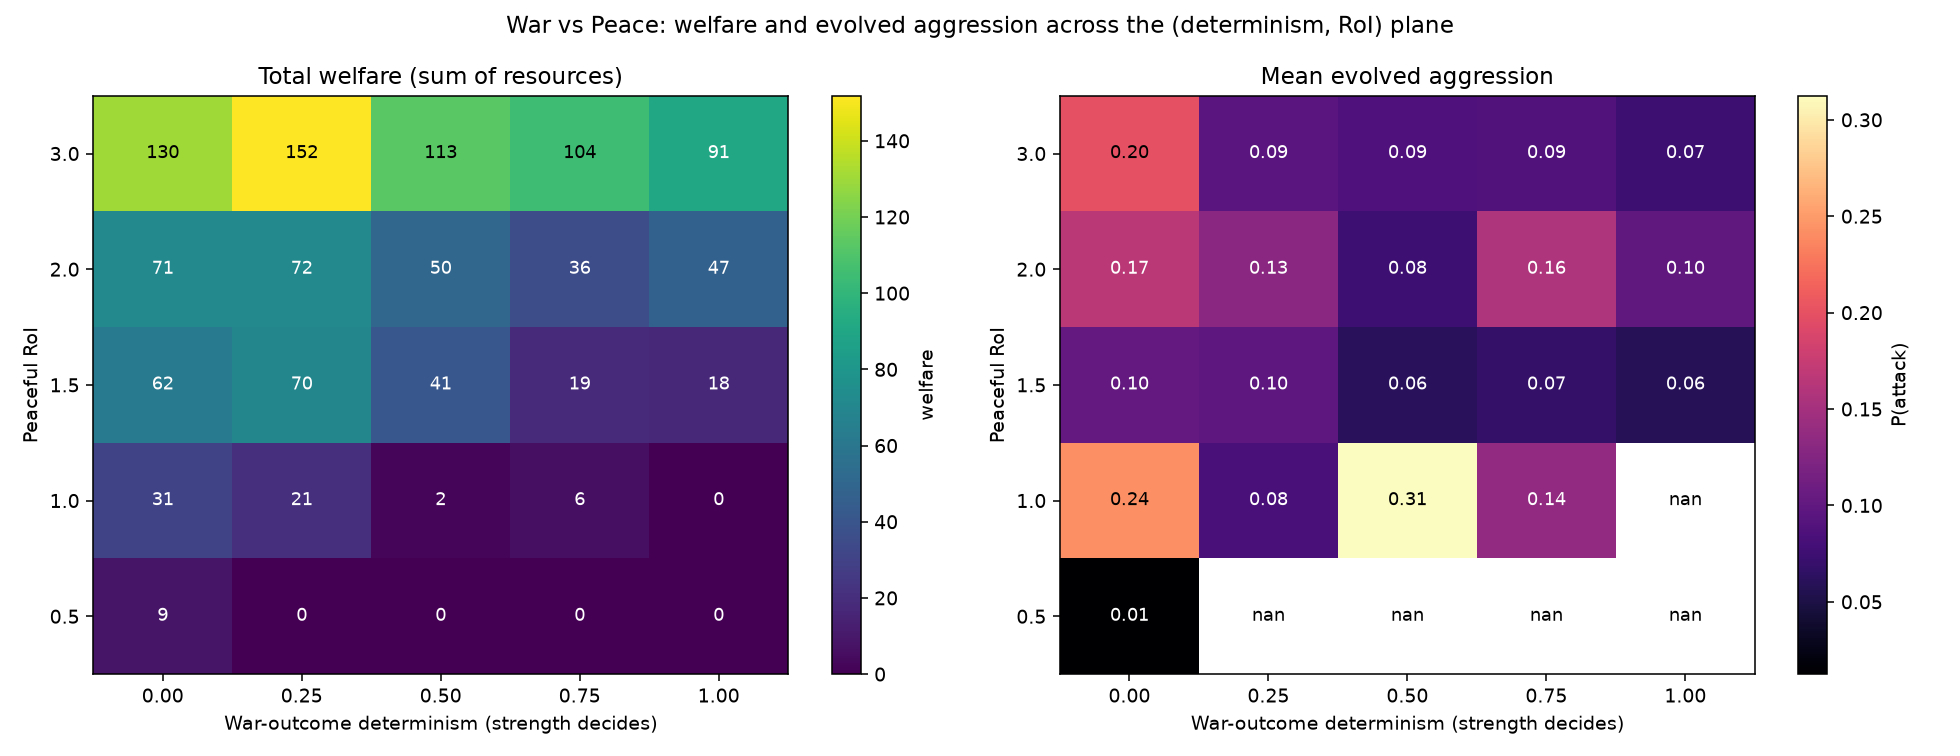
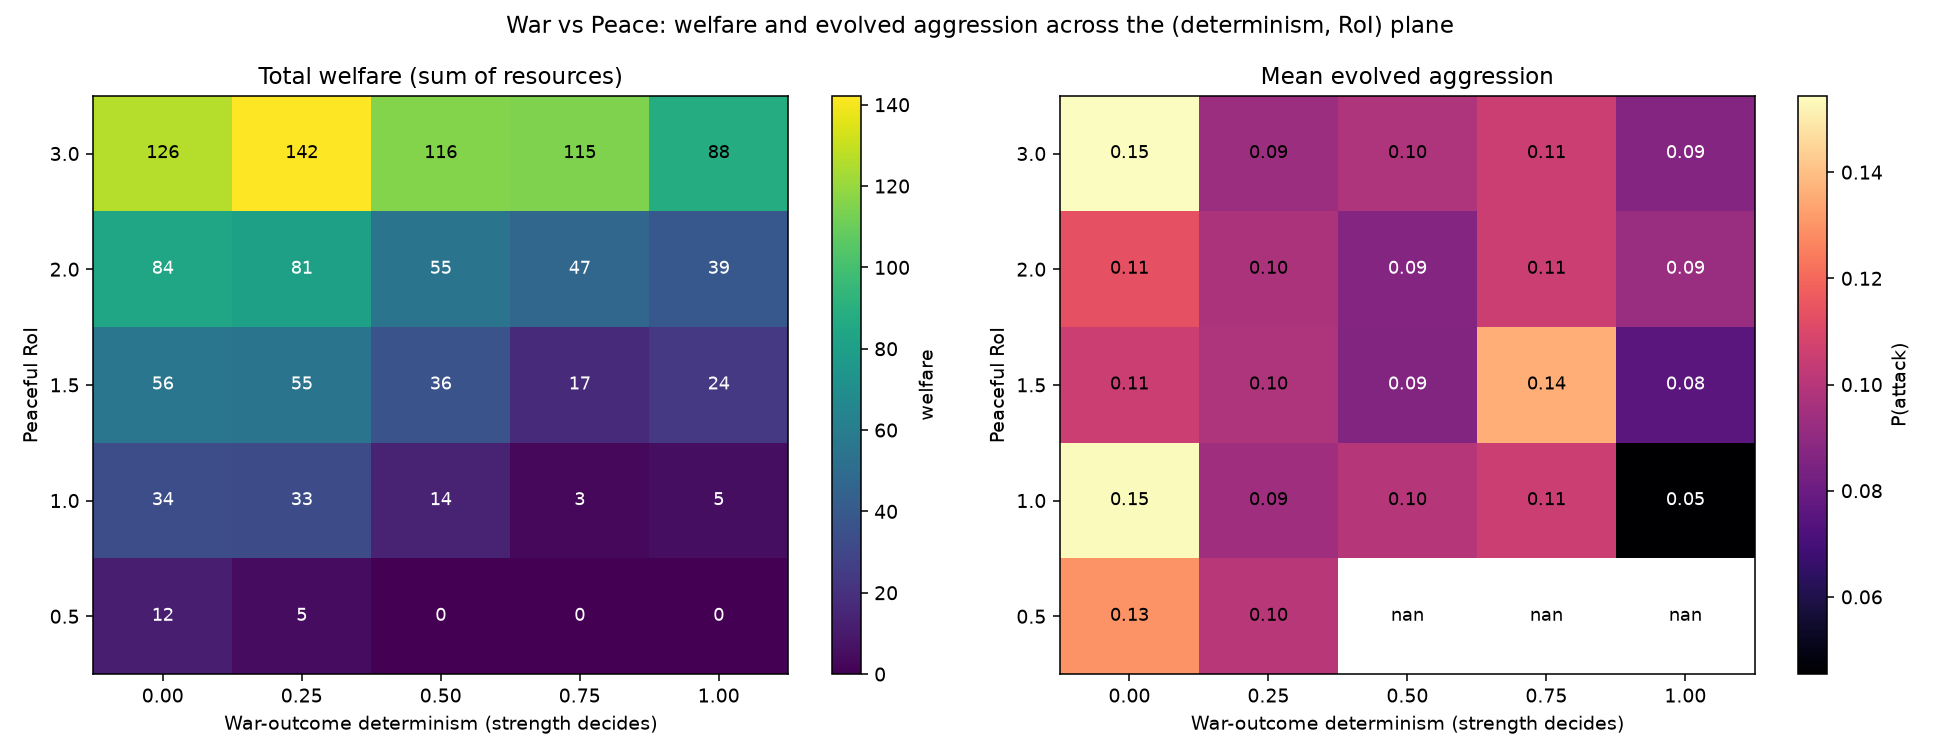
AI research for document edit

diff --git a/assets/war_peace_multiseed.html b/assets/war_peace_multiseed.html
@@ -1,0 +1,68 @@
+<!doctype html>
+<html><head><meta charset="utf-8">
+<meta name="viewport" content="width=device-width, initial-scale=1">
+<script src="https://cdn.plot.ly/plotly-2.35.2.min.js"></script>
+<style>
+  body { font-family: -apple-system, Segoe UI, Roboto, sans-serif; margin: 0; padding: 12px;
+         color: #1a1a1a; background: #fff; }
+  .controls { display:flex; gap:8px; flex-wrap:wrap; margin-bottom:8px; align-items:center; }
+  button { border:1px solid #ccc; background:#f6f6f6; border-radius:6px; padding:6px 12px;
+            cursor:pointer; font-size:13px; }
+  button.active { background:#1f77b4; color:#fff; border-color:#1f77b4; }
+  #note { font-size:12px; color:#555; margin:6px 2px; }
+  #chart { width:100%; height:430px; }
+</style></head>
+<body>
+<div class="controls">
+  <button id="b-pop" class="active" onclick="show('pop')">Population</button>
+  <button id="b-welfare" onclick="show('welfare')">Total welfare</button>
+  <button id="b-aggr" onclick="show('aggr')">Mean aggression</button>
+  <button id="b-weap" onclick="show('weap')">Weapon budget</button>
+</div>
+<div id="chart"></div>
+<div id="note"></div>
+<script>
+const DATA = {"n_seeds": 20, "n_steps": 80, "conditions": {"peaceful": {"determinism": 0.25, "roi": 2.0, "pop_mean": [38.35, 36.35, 29.45, 24.2, 14.5, 11.55, 11.6, 13.5, 16.4, 18.8, 20.55, 22.2, 21.95, 22.45, 22.65, 22.65, 23.1, 25.4, 26.05, 25.7, 26.25, 25.9, 26.6, 27.35, 27.4, 28.3, 29.25, 29.3, 29.0, 29.0, 28.7, 28.45, 29.4, 29.5, 29.35, 30.65, 30.75, 30.95, 31.2, 31.3, 31.4, 30.6, 30.8, 32.45, 32.95, 32.15, 32.4, 32.7, 33.2, 33.5, 34.05, 33.55, 33.95, 33.35, 32.75, 32.4, 32.8, 32.35, 32.65, 33.25, 33.0, 32.65, 33.6, 34.1, 33.25, 33.4, 34.4, 34.55, 34.25, 34.2, 35.05, 33.95, 33.65, 34.3, 33.65, 33.35, 33.6, 34.5, 34.55, 34.75], "pop_sd": [1.8513508581573621, 1.5580436450882884, 3.185514087239295, 3.8026306683663087, 4.444097208657794, 5.8691992639541555, 6.224146527838173, 6.18465843842649, 6.514598989960932, 7.3116345641723655, 8.176032044946986, 9.405317644821997, 9.404653103650341, 9.785065150524039, 10.194483802527717, 9.976347026843042, 10.563616804863758, 10.85541339608953, 11.685354081070887, 11.904200939164292, 12.376893794486563, 12.652667702899652, 12.6940931145159, 13.297650168356814, 13.555072851150598, 13.75172716425104, 14.435632996166119, 13.565028566132842, 13.019216566291536, 13.341664064126334, 14.053825102085197, 13.868940118120058, 14.516886718577094, 15.068178390236824, 14.50611939837805, 14.581752295249016, 15.29664996004027, 15.91060966776572, 15.295751043999115, 14.605136082899056, 14.430523206037957, 14.864050591948349, 14.218298069740978, 14.520588831035745, 14.931426589579443, 15.45404477798612, 14.971305888265059, 14.822617852457778, 13.994999106823837, 14.232006183247673, 15.157423923609183, 15.354071121367127, 15.759045021827939, 14.866993643638919, 14.703315952532613, 14.59246380841837, 14.702380759591286, 14.21363781725143, 14.75898031708153, 15.198272928198126, 14.909728367747013, 14.646757320308136, 15.057888298164519, 15.937063719518726, 14.788086421170252, 14.894294209528695, 15.730225681788548, 15.324734907984542, 15.303185942802891, 15.67992346920099, 16.28335039234862, 15.822373399714722, 15.975841135915193, 15.585570249432646, 15.245573127960785, 14.471610138474569, 14.284257068535277, 14.820593780277497, 14.637195769682116, 14.699914965740449], "welfare_mean": [96.41025620257918, 68.52015736498086, 45.67306214444323, 28.73846288158226, 21.746585854902882, 20.634241083345714, 24.565710598646756, 32.132083518404954, 38.098854217413276, 43.44957762783254, 45.41623609455617, 47.41527662258389, 46.5327434529572, 45.556810450415206, 46.46797431240494, 47.387927108053745, 50.3702712292657, 54.08956247786574, 52.52737680011992, 52.70086870038334, 52.78276950596366, 52.778119350975864, 56.071717044640494, 57.08285444039389, 56.942096868849546, 58.463979764073166, 57.3319952142185, 58.48869972633399, 59.55674535859487, 59.04206309851135, 57.48458080114638, 57.900557230323656, 59.479897997862885, 60.11615099956166, 61.05459245075222, 63.603325728206485, 62.881368570528934, 62.84861495448054, 63.28632355215799, 63.40064571398536, 61.84873754244247, 63.06941249994642, 66.13607735650547, 68.03271497886877, 68.35007507355658, 66.61552268314405, 67.20667030167928, 68.2957338373416, 68.4885975719317, 69.06076566936026, 69.83907589147375, 67.51669199349244, 66.84202541643884, 65.82406609117974, 65.59728018981059, 65.57494088385359, 64.84098434663171, 65.57208389029759, 66.67111020397675, 67.93187467701567, 68.77589699614649, 69.99253915705313, 70.55416060528667, 71.29023704994998, 69.95770888646553, 70.90831724889628, 71.11968890976605, 70.24179993623142, 70.89269304536388, 69.37547269868082, 69.51314378005414, 67.9704260069955, 68.53934410154545, 69.77416371173945, 69.93730954691492, 70.09844051634313, 70.7914070918138, 71.27348891680661, 71.42376290475133, 71.50614444535137], "welfare_sd": [3.1063112772830554, 6.449322849226694, 6.230857530648692, 7.943544854681743, 10.905335005308915, 12.867018175653191, 11.140092176591745, 13.676417557035178, 14.693952177113529, 16.323543553986877, 17.661308109071843, 19.733743410921946, 20.785833124384887, 21.066154727189396, 21.536089628788435, 21.02247258526545, 22.423261272993393, 24.239708300162665, 25.082738090779888, 26.166020085310173, 26.098579498500346, 25.9233796249422, 26.76314180937836, 27.62400832140948, 28.6453208205723, 29.14168767414172, 27.940413932092337, 28.127371383895476, 28.940304534177347, 28.637806693788335, 29.47672022168921, 29.34668132639163, 30.30882442426785, 30.822952938940954, 31.697826706621395, 32.41014754267107, 32.98951727153753, 33.013824455187134, 31.259867040002547, 30.755925088024654, 31.139996642527986, 31.628310795438612, 31.247525721387646, 31.239386123563722, 31.863810924339774, 31.7143337210257, 31.731121749458417, 30.815287879599502, 31.204495680043674, 31.675004545797368, 33.149910799791904, 32.03595262304729, 30.96086152571968, 30.41284901588189, 30.77487374527467, 31.172416277158657, 30.34694308201093, 30.24130992544186, 31.055518748512217, 30.30360937727586, 31.70544794508423, 32.37755613554811, 33.080708214362346, 33.113069179055515, 32.291799592605244, 33.19582854992045, 34.06269105421706, 33.509670044924796, 34.31485621556258, 33.59581986412701, 33.08760359732943, 32.26858850152791, 32.061061118892795, 30.68334038025061, 30.675307662322282, 30.357470466329133, 31.23735354790191, 31.87829862500078, 30.6398664892303, 30.443083055919256], "aggr_mean": [0.487744047384912, 0.4770035384230947, 0.47015319188630195, 0.4434897380269597, 0.38563399563678014, 0.3421232431575763, 0.27907992966402706, 0.2598330172114173, 0.2549833268979987, 0.23906125637779868, 0.2379209791357184, 0.23603432957059525, 0.23002105404590897, 0.2411296896153059, 0.23697079885009012, 0.19461205290604897, 0.1886226583704009, 0.1854564627683728, 0.18306215729256406, 0.17421221638775755, 0.17022187829580118, 0.16821718599631694, 0.16941844816787585, 0.16899127918296902, 0.16727664788193672, 0.1671501817417041, 0.16635808506234184, 0.14194039035715156, 0.14105272590214563, 0.14070334735384085, 0.1380736439328343, 0.13565522636237404, 0.1345668395448308, 0.13619983188513995, 0.13568398516449257, 0.13676705951238033, 0.1336275858653218, 0.1262066838168184, 0.12564422119038893, 0.12454569430200862, 0.12250210430474626, 0.11705458349108283, 0.11699993186606836, 0.11772778062046146, 0.1172193772652679, 0.11072841221743436, 0.11125321615533111, 0.11410734498416351, 0.11133062401146049, 0.11114130722376886, 0.11469062843370942, 0.11343138446303319, 0.1137544803506696, 0.11310641459639083, 0.11243858265081481, 0.11058459856942061, 0.11090112294538976, 0.10903747098968247, 0.10831918900714867, 0.10937265736510854, 0.10532628538176737, 0.10413357217945104, 0.1031734343021865, 0.10209068354227407, 0.09967378662797095, 0.09960988280698006, 0.0997573077192578, 0.09784386821279573, 0.09699426133101043, 0.09362307352736116, 0.09547186507812071, 0.09321569959572844, 0.09245187668371678, 0.09669256522356744, 0.09913660217036012, 0.09957216792818685, 0.09727771794557973, 0.09645889876974217, 0.09892476949773912, 0.10136749584938239], "aggr_sd": [0.044181763452426664, 0.05493486772084294, 0.06146972480622503, 0.069246202955661, 0.097437075149825, 0.11033384709900457, 0.11615703540711728, 0.14707776807022901, 0.14207144666983312, 0.12121974112003296, 0.13114671255558974, 0.13472338584254806, 0.14334335872301446, 0.17881147566588815, 0.1787634376160311, 0.11178883378413025, 0.11536500879845302, 0.11675939265573841, 0.11340316534105198, 0.11243043384283728, 0.11281009818359947, 0.11421763378066248, 0.11869863214688338, 0.12644092024052844, 0.12761330730569242, 0.12727098427408018, 0.12646047735929153, 0.0775244686064878, 0.07828058281515088, 0.08088015747372594, 0.0799224001009456, 0.07694612256489636, 0.07285559427609103, 0.07598426462425223, 0.07220932948364268, 0.07089166537639173, 0.06936243476075966, 0.06588479194737355, 0.06626081280644586, 0.06643639257227459, 0.06092285157026512, 0.06026022690988478, 0.064214529267556, 0.06659748258308078, 0.0684259647181941, 0.06754677537993829, 0.06638711688517311, 0.06753515372504008, 0.06373139701060192, 0.06618282753475838, 0.06955215882882433, 0.06701451940785809, 0.06742529135841614, 0.06392000662680343, 0.06389002212936369, 0.060121142165820075, 0.06313702610563102, 0.06038267631263222, 0.058600090619653974, 0.05629671729355926, 0.05290744435994499, 0.05323687446759116, 0.05083070999793478, 0.04989695991348102, 0.051613009794125746, 0.05305956138216232, 0.05008743018499762, 0.04712890278447432, 0.04880570086719228, 0.048643303767176314, 0.047371757900027296, 0.04357277780166027, 0.04186665112313897, 0.04300897078450679, 0.046814991891680306, 0.040408664688965264, 0.03620243228993056, 0.03696563060681912, 0.04160917950201044, 0.04157072596741728], "weap_mean": [0.49569700275860146, 0.49771297122804753, 0.4932120676426014, 0.4841317297417761, 0.4627985682577355, 0.4234459358198075, 0.369461452336764, 0.3600261907968768, 0.3647487463496177, 0.3588377434722346, 0.36844871964400994, 0.3675283472021506, 0.3660390661138393, 0.37426543624084574, 0.37458266448107974, 0.34336708166058044, 0.33408267165324473, 0.3378572953246693, 0.3314717960173136, 0.3289847620625241, 0.3299934940172859, 0.33218158350796173, 0.3234604347647611, 0.3264423851927879, 0.33304935562844007, 0.3366303061329088, 0.3349730749885505, 0.3039809238533141, 0.3022412194465658, 0.29926326285780314, 0.3028348874553795, 0.2996598173766821, 0.2966595329969646, 0.29177022804336583, 0.2928327022265192, 0.2846666528727137, 0.28544564240649134, 0.2870762577481588, 0.2819439636471337, 0.2793240673830469, 0.27651134299686275, 0.2760144382930573, 0.2707202178170133, 0.2679989660960008, 0.2670210591373078, 0.2635616690881002, 0.2600568384801087, 0.2568156276384326, 0.2535539664321447, 0.2554906406690203, 0.2556194524384663, 0.25515487424414873, 0.25982424441918117, 0.26414098566441324, 0.26304080796677015, 0.26051544530945914, 0.2558281127655408, 0.2515843900366243, 0.25020082214144534, 0.25149100343441405, 0.25352159651249956, 0.25680685213930965, 0.2599567833833863, 0.25863690320951754, 0.25855073881219837, 0.25339541126067505, 0.25035379850713996, 0.25187277278425846, 0.25215157803614136, 0.2555823726423221, 0.25169846429514986, 0.2536065252813444, 0.24692813282585638, 0.24235038827253857, 0.23639994803036318, 0.23574007761033844, 0.23447148788810107, 0.23141764674200863, 0.231552947150418, 0.23235292740684996], "weap_sd": [0.07335294690586915, 0.06856108683134042, 0.06507281688727533, 0.07805388431784069, 0.10058655779506574, 0.13049126840919303, 0.11147930913581389, 0.11888205290811121, 0.12042965864406155, 0.11401865733302044, 0.1194415722245185, 0.12669556385989855, 0.13228857367654917, 0.16170528564878073, 0.16624554574532172, 0.150059875407549, 0.15051285157908695, 0.15114258733963284, 0.14920605628273684, 0.15056746044487374, 0.15634687617004833, 0.1626268718847299, 0.1688493229480803, 0.1760176371315853, 0.17407213534424348, 0.1758439792424392, 0.1740657902285762, 0.14176202659646922, 0.14447443010251865, 0.1450874838583884, 0.14717788137495066, 0.1514079964215914, 0.14899796931790002, 0.14617152235299424, 0.14768259563605293, 0.1439066225051073, 0.1441502260203874, 0.1489296641686824, 0.14285384857449906, 0.14379782638224975, 0.14155961884811916, 0.14491639646037666, 0.14569564566307955, 0.14455111359332268, 0.14365502572778419, 0.1416977361825751, 0.13832679123851999, 0.12985050031773313, 0.12708275842833183, 0.13352967765055776, 0.13248154915993476, 0.13406414795362953, 0.1367290236784609, 0.13741914735401722, 0.1368124004600151, 0.13811316653992425, 0.1381128404603603, 0.14096298957875988, 0.14455317830084416, 0.14817274283731993, 0.15239084784155613, 0.15630548924218535, 0.1596815636439308, 0.1562252516983478, 0.16453749925427705, 0.16114283698712675, 0.16000380011361623, 0.15424969619579615, 0.15593424428147798, 0.15903726291633039, 0.15671979645285425, 0.1584509199573665, 0.15902916176705686, 0.1544188848479264, 0.14938519286854277, 0.1479806398995316, 0.14542422483035125, 0.14080802842548937, 0.13879587071477822, 0.14246047848322707]}, "arms race": {"determinism": 1.0, "roi": 1.5, "pop_mean": [38.55, 35.1, 27.4, 21.25, 11.7, 8.5, 7.45, 7.25, 6.85, 6.9, 7.1, 7.4, 7.45, 7.45, 7.55, 7.5, 7.5, 7.75, 8.1, 8.55, 8.4, 8.65, 8.7, 8.4, 8.45, 8.55, 8.35, 8.8, 9.2, 10.15, 10.5, 10.05, 10.0, 9.35, 9.25, 9.45, 9.55, 9.2, 9.6, 10.35, 10.45, 10.55, 10.65, 10.65, 10.6, 10.75, 10.8, 11.05, 10.95, 11.25, 11.5, 11.5, 11.8, 11.55, 11.35, 10.6, 11.35, 11.6, 11.65, 11.6, 11.8, 11.35, 11.65, 11.85, 11.6, 12.0, 12.25, 11.6, 11.95, 12.2, 11.85, 11.8, 12.3, 12.6, 12.7, 12.6, 11.9, 12.05, 11.9, 11.7], "pop_sd": [1.5960889699512364, 1.729161646579058, 2.517935662402834, 3.0639027399707057, 3.287856444554719, 2.819574435974337, 3.201171660501823, 3.6038174204584785, 4.563715591489022, 5.290557626564519, 5.503635162326805, 5.535341001239219, 5.652211956393709, 6.41463171195354, 6.844523358130937, 7.074602462329597, 7.165891430938652, 7.936466468145632, 8.688498144098322, 9.046960815655167, 8.481745103456008, 8.673378811051666, 8.491760712596651, 8.248636250920512, 8.434897746860955, 8.91894052003936, 8.934623663031365, 9.146584061823301, 9.584362263604188, 10.451196103795969, 10.828203913853857, 10.693339048211275, 11.131037687475503, 10.41285263508516, 10.01436468279441, 10.156155768793624, 10.19546467798305, 10.047885349664377, 10.9288608738514, 11.710145174164152, 11.939325776608996, 12.220781480740092, 12.22814376755524, 11.854429551859509, 11.833849753989613, 11.903255857117413, 11.702991070662234, 12.060161690458383, 12.00197900348105, 12.344533203001237, 12.835497652993435, 12.26172907872295, 12.452309022827855, 12.439754820735013, 12.285255390100769, 11.538630767989762, 12.350202427490812, 12.269474316367427, 12.709346954112158, 12.630914456206249, 12.87089740461014, 12.410781603106228, 12.594740965974646, 13.096850766501083, 13.173458164050926, 13.36413109783049, 13.648717888505132, 12.741271522104848, 13.328447021314973, 13.883803513446884, 13.95089602857107, 14.019985734657507, 14.37045580348793, 14.440914098491135, 14.543383375267256, 14.427057912131636, 13.689046716261876, 13.930093323449057, 13.25481044753187, 13.119070088996398], "welfare_mean": [95.59386058128122, 66.24880168276196, 42.644094517456736, 25.46144208837854, 18.307175456799705, 15.054924169938214, 14.526081892558022, 14.928031008835115, 14.842252700166497, 15.517312650172087, 16.020582486737432, 16.081338422700366, 16.618144766539494, 16.467420077185672, 16.348436502929697, 16.103272610931644, 16.458292119884053, 17.21673732335557, 17.355762045356297, 17.364962836187235, 17.416755460642943, 17.722515349767534, 17.367065540298817, 17.481889455262042, 17.561761243706478, 17.65507689406726, 18.38013508065736, 19.266167586194953, 20.571183398885903, 21.399875138678166, 20.573784232917752, 19.929518015592755, 19.51949429329155, 18.59230730401757, 19.055246442265606, 19.038590321047693, 19.23087504770137, 19.83871228499552, 20.6054328637703, 21.351278933690605, 21.454043294856472, 21.208867215683462, 22.0523291751135, 21.98316834597511, 21.512779356966952, 21.106629499157453, 22.01712663946665, 22.715004423711925, 22.479337362845456, 23.345459548494727, 23.76301207633258, 23.687054395812787, 23.674350408799977, 22.932888057116536, 22.728510906779317, 22.493491253891218, 23.087580027580678, 23.241015124765536, 23.747655376564122, 23.39115466813723, 22.789214334288125, 22.167094242317553, 22.661195118316588, 23.255633838759508, 23.054728942979956, 23.13452156910403, 23.27007970790088, 23.087263315925775, 24.315827097150397, 24.30394957024091, 24.859157009553247, 24.85882365903865, 25.042602289674797, 25.234362345452286, 25.126536796912813, 25.11912575243633, 24.099748242211973, 23.975565936932778, 23.477739892459148, 22.902745383314638], "welfare_sd": [3.3485078350941344, 4.818720704058406, 5.501310838740242, 6.012087062606094, 5.936441129763794, 6.232919422167202, 7.308783025836491, 8.821100491245968, 9.311276316911922, 10.133922004063818, 10.866679114828452, 11.818023224989597, 13.612852114818118, 14.317409409145057, 14.720060981984817, 15.433576145633346, 16.66767506633731, 17.96187772914365, 17.790360946394102, 17.293688808686753, 16.477203096437776, 16.918470180577387, 16.914294289605106, 17.75560033863353, 18.623157786322658, 18.866659454655363, 19.715061852122545, 20.431473187403597, 21.50045011007926, 22.247097527181573, 21.462758259147368, 21.438736038031294, 21.321830505368354, 20.22704683355692, 20.34987007411125, 20.330629595370024, 20.878735499025776, 21.99024858181278, 23.272407283260563, 24.362912976800207, 24.792730877803802, 24.5442149785485, 24.742086457420488, 24.31799056162319, 23.581840074967072, 22.900647724862125, 23.962035767499938, 24.216647270323097, 24.139570549288514, 25.129758167666072, 25.40996934171404, 24.82439846650729, 25.283200108849883, 24.977133881515687, 24.793115175858432, 24.167367705671325, 24.85891636608763, 24.926277771105635, 25.539267628819225, 25.2661507014258, 24.64916527188335, 24.243044000091167, 25.123468120085974, 26.164435262992882, 25.931510726060907, 25.830871746091464, 25.768862043986466, 25.717547580676303, 27.979114898063088, 28.505565592278163, 29.42590845411196, 29.163266457500324, 28.755633295114837, 28.539602450572495, 28.301077980772266, 28.348410056012096, 27.29055211469846, 27.037863235202312, 26.315978807233154, 25.930453714087296], "aggr_mean": [0.4883021426227773, 0.4766471146014649, 0.4675764742091995, 0.4502984467479301, 0.3699560033314372, 0.35285386336475344, 0.35139346125305276, 0.3197722163165707, 0.3409513569590208, 0.33849427432767487, 0.3393867027021785, 0.32494058478306515, 0.31963907196311186, 0.3016645110788297, 0.28044945911875324, 0.2771502239991911, 0.25452331228693154, 0.21966157533222705, 0.20180797790283925, 0.1943089639379858, 0.2001875232411087, 0.19173238659057593, 0.1951979341009793, 0.19325225913697985, 0.17979781268370398, 0.18526904174693368, 0.20265687723815984, 0.1951989908163335, 0.17804865910902803, 0.16725791758839878, 0.17658372357706845, 0.16791354873411127, 0.1875715999004011, 0.18499652357587626, 0.19473418525543876, 0.2229991203218644, 0.210402573906575, 0.2044732282701836, 0.2062971835674891, 0.20415120143119447, 0.20372460665718328, 0.14606816163894226, 0.13672330716453313, 0.1290718653527017, 0.12370702989820917, 0.12542676042631887, 0.11520345302157298, 0.10840464667852845, 0.11768288457210155, 0.11914881164744025, 0.11932372284224266, 0.11653723967892822, 0.11181105921830166, 0.1140490643743645, 0.10629776301193941, 0.11014555158359067, 0.10303378384894754, 0.10422126493459238, 0.10257864773020808, 0.10226753595143712, 0.0924545811756512, 0.08887209954953054, 0.08851367734532384, 0.08944896077651057, 0.08729023209567949, 0.09075415137605786, 0.0919984654113481, 0.08775333007359208, 0.0895039481587703, 0.08794642720936675, 0.081720664678737, 0.08737527131354317, 0.08574025107147107, 0.08746320273490005, 0.08792815108263756, 0.09468200384788673, 0.09950908861790947, 0.10017732860760693, 0.10496607683112132, 0.10364922509524699], "aggr_sd": [0.041456853492260096, 0.05009241970922494, 0.0593133056334962, 0.06243154768068985, 0.07741334290180979, 0.08780350647213499, 0.13042412692217992, 0.14022006637835135, 0.17533865230298054, 0.18506837926945635, 0.20980740792284194, 0.20780273607589445, 0.21500462519476507, 0.21321047284472935, 0.21154285140600085, 0.2111021731051098, 0.23074514329454893, 0.12773707983256755, 0.10872078646130959, 0.10557495127307867, 0.10625010965470259, 0.10650830780610912, 0.115034240446626, 0.11174882415987611, 0.1059694209813775, 0.1249480591531196, 0.13704395409587322, 0.13755848948639773, 0.10833116474924953, 0.08885848048672794, 0.09483814882636671, 0.1022747772571713, 0.1232153887736683, 0.12542445644339847, 0.1308060827727589, 0.1847904436807231, 0.18048209455270725, 0.1753644656249225, 0.19003564849390867, 0.18476947014499048, 0.1763859180830089, 0.09953957794478799, 0.07981467156482719, 0.07827751231661145, 0.07358738076355346, 0.07504991404254142, 0.0724169157968993, 0.06392384569299231, 0.06558211272559028, 0.06276444200901608, 0.06447143653967749, 0.06316515599661218, 0.06099377945858673, 0.061348330274107354, 0.05331888373230935, 0.05800027201069923, 0.05561284895552512, 0.05744712693892244, 0.05913076007566435, 0.051735091163460235, 0.043951481543693126, 0.042778497828734045, 0.04034329993265141, 0.03822367897363296, 0.04462895778818308, 0.045785410537494076, 0.04909261004694521, 0.049603490084593145, 0.05938704703704017, 0.06173450171046474, 0.05059290901852284, 0.05486798327486827, 0.047687669016827236, 0.042656230163463135, 0.04131408334307155, 0.04134368033598214, 0.044789992525216926, 0.04273375194425217, 0.048515162812640254, 0.05305565290460964], "weap_mean": [0.5227785728474992, 0.5602467890172156, 0.5764266646964096, 0.5899762969282117, 0.6543484810713108, 0.6609824134088582, 0.679546952916807, 0.7055597822700639, 0.7187454733900891, 0.7016001249806725, 0.7016629689669956, 0.7003346108440833, 0.6821011950814542, 0.6600713111747836, 0.6422785804856702, 0.6258313425767869, 0.5748543266806045, 0.5221667807250601, 0.5115470967094956, 0.5007591140392352, 0.5130117529768338, 0.4996460771694422, 0.5042116141701088, 0.5091840642699317, 0.49871361197599323, 0.4997020588689199, 0.5203599216775254, 0.5140637511939424, 0.48818101634822986, 0.4925784211848441, 0.4938901392226472, 0.4877898962940508, 0.4442873210327172, 0.4380099760117184, 0.4374037725338564, 0.45421116560780006, 0.4431258110874337, 0.446857157204084, 0.44825164983252996, 0.44646880739278333, 0.46234757825260764, 0.39565227801306135, 0.3806355149645598, 0.38198100486208975, 0.3806079388120679, 0.37423890125730147, 0.3711793235520891, 0.35935442455669087, 0.3605855935336479, 0.3647747679161547, 0.3610606635502278, 0.35356558585144376, 0.3476449543760763, 0.35292655802123246, 0.3542481626935425, 0.3590983564217921, 0.3548912795405905, 0.35699356301212426, 0.3599341013425478, 0.35895072492834934, 0.35913166718593964, 0.347911540889141, 0.35274909628276674, 0.3664485794071481, 0.3696060653562258, 0.3665055966229714, 0.372961524861763, 0.3625099755485699, 0.36271116895901306, 0.35894673062019267, 0.3534422821449687, 0.3585545679562529, 0.36246408839336824, 0.35690782120391396, 0.3492194443199277, 0.35635608603246455, 0.36867958977083326, 0.3691105725363093, 0.3733448245426594, 0.37001138333415196], "weap_sd": [0.06837890897050529, 0.07009467239642166, 0.07375441399933862, 0.07377015094122329, 0.1138734659263236, 0.15080277540648251, 0.1585340943606094, 0.17814551061799497, 0.19666676385322662, 0.21699000668911314, 0.23083152116307157, 0.2370394626719499, 0.2599977450189325, 0.23383521125990697, 0.22401332176426347, 0.24690858087055273, 0.2736039230800928, 0.21272351376361806, 0.19918901031658692, 0.19325849682902566, 0.19680547337082363, 0.20848637024957067, 0.21263036010424863, 0.21446891560495585, 0.2142291554745622, 0.23930214898049393, 0.23470526680937268, 0.240914671119819, 0.2420808616441793, 0.23718833725666674, 0.24206198315950456, 0.24607104115560638, 0.2175882541269647, 0.21957901221242146, 0.2216947394665744, 0.22531280220614833, 0.23513613976902223, 0.22705415889372071, 0.23534149159243048, 0.23452421871261242, 0.2266819816854415, 0.15579633322817688, 0.15386616809393266, 0.152880490242949, 0.153033468195263, 0.15761587875165656, 0.1541513160214247, 0.15749433247599215, 0.1518680290478898, 0.14812466311242603, 0.15417922466977244, 0.15419522731752253, 0.15312192300649569, 0.15840182121740887, 0.16100415550901906, 0.16324888651931257, 0.15753279652076269, 0.1624763437810431, 0.16524474111948217, 0.1660604164158982, 0.1623955931688958, 0.17240391376848604, 0.16848934215733397, 0.17003519212611798, 0.17223587986925895, 0.17773934584593404, 0.18039132690351017, 0.19125314534035698, 0.19675936681548892, 0.20127867181675357, 0.20026568342430276, 0.20139555599529102, 0.19658157801257117, 0.19355872361722354, 0.19153893358169757, 0.1910020711610037, 0.19499593602859175, 0.19507066032783596, 0.19210092474723892, 0.19256065680993914]}, "collapse": {"determinism": 1.0, "roi": 0.75, "pop_mean": [37.0, 33.15, 25.0, 18.1, 8.15, 4.7, 3.2, 2.4, 2.3, 2.35, 1.95, 1.65, 1.85, 1.75, 1.6, 1.5, 1.45, 1.3, 1.4, 1.25, 1.25, 1.4, 1.45, 1.4, 1.45, 1.4, 1.35, 1.35, 1.15, 1.15, 1.0, 1.1, 0.95, 1.05, 0.95, 1.0, 0.85, 1.0, 0.95, 0.9, 0.95, 0.9, 1.0, 0.95, 0.95, 0.95, 0.8, 0.8, 0.85, 0.95, 0.85, 0.85, 0.95, 0.95, 1.05, 1.05, 0.9, 0.9, 0.85, 0.8, 1.0, 1.15, 1.0, 0.9, 0.75, 0.8, 0.75, 0.85, 1.0, 1.05, 1.2, 0.9, 1.0, 0.9, 0.8, 0.85, 1.05, 0.95, 1.05, 0.9], "pop_sd": [1.2649110640673518, 1.82414363469547, 1.816590212458495, 2.4879710609249464, 1.6515144564913744, 1.5198684153570663, 1.4, 1.5937377450509227, 2.0024984394500787, 2.669737814842499, 3.0573681492420897, 3.2291639784935047, 3.758656674930554, 3.6588932752951404, 3.6523964735499352, 3.640054944640259, 3.3834154341434335, 3.348133808556641, 3.6386810797320495, 3.519588044075613, 3.713152299596665, 4.188078318274384, 4.375785643744448, 4.747630988187687, 4.954543369474124, 4.747630988187687, 5.042568789813382, 5.443114917030504, 4.574658457196558, 4.574658457196558, 4.135214625627067, 4.570557952810575, 4.140953996363639, 4.576843890717708, 4.140953996363639, 4.358898943540674, 3.705064102009573, 4.358898943540674, 4.140953996363639, 3.9230090491866068, 4.140953996363639, 3.9230090491866068, 4.358898943540674, 4.140953996363639, 4.140953996363639, 4.140953996363639, 3.487119154832538, 3.487119154832538, 3.705064102009573, 4.140953996363639, 3.705064102009573, 3.705064102009573, 4.140953996363639, 4.140953996363639, 4.576843890717708, 4.576843890717708, 3.9230090491866068, 3.9230090491866068, 3.705064102009573, 3.487119154832538, 4.358898943540674, 5.012733785071775, 4.358898943540674, 3.9230090491866068, 3.2691742076555053, 3.487119154832538, 3.2691742076555053, 3.705064102009573, 4.358898943540674, 4.576843890717708, 5.23067873224881, 3.9230090491866068, 4.358898943540674, 3.9230090491866068, 3.487119154832538, 3.705064102009573, 4.576843890717708, 4.140953996363639, 4.576843890717708, 3.9230090491866068], "welfare_mean": [92.85531197477664, 62.07267866498593, 37.30725774104958, 19.28820916891502, 11.343643189850608, 7.851178193316656, 6.315213310197025, 5.960394796861044, 5.438610425654363, 4.954179133138876, 4.391289390080333, 4.05916277687884, 4.119768798951908, 3.9686826398120103, 3.7541676918737856, 3.291452808836863, 3.0593237785994436, 2.988454400045394, 2.8429894178829525, 2.6429930634029764, 2.9196536840419087, 3.177321852479145, 3.13929419681443, 3.1160296252340003, 3.046383320850913, 2.8789507004529575, 2.597776862629309, 2.4796431641853167, 2.2412181231026476, 2.2654574026413448, 2.2011410210798497, 2.062891854856216, 1.807746723937339, 1.7825084191276688, 1.7028596302526844, 1.676982004427143, 1.6926728329805325, 1.8971293862430856, 1.8442663547419371, 1.9776773434775259, 1.9259083847609346, 1.835071931190199, 1.8238298697448634, 1.8299218758586453, 1.7658654262800972, 1.766545168597537, 1.6578105983185263, 1.7265687197706066, 1.6427481018970997, 1.5688720165928385, 1.573237222157969, 1.634471237415568, 1.7915253408979486, 1.710222168408075, 1.734806034061291, 1.6714127852359482, 1.6086068893946233, 1.6017633386804377, 1.6133664498501865, 1.7241974058581344, 1.9074700933066375, 1.841690453387093, 1.7907611238271748, 1.7360136984347967, 1.6176722861715604, 1.7232510080111567, 1.841245241000438, 1.7972254527077667, 1.9521343852561266, 1.933202927142084, 1.851553192063335, 1.509880728139738, 1.545473276429162, 1.480535331125403, 1.6270108671926575, 1.7810026772615992, 1.9139378240143343, 1.9785966176411685, 2.0382093988370102, 1.8561689177042164], "welfare_sd": [1.6490885707889262, 3.20861670745158, 2.943378065492208, 3.320972845246345, 3.268835830411079, 3.3271317296131637, 3.307747905826899, 4.367688547405843, 5.515824780928481, 6.79651830798414, 7.242125713985231, 7.791602472184686, 8.485123597211423, 8.790409604017759, 8.594043412581557, 7.581335647243813, 7.353572172265234, 7.7408397447543065, 7.716470849675366, 7.40589057710466, 8.60712399296021, 9.851807342964241, 10.242357411845386, 10.5631806461287, 10.234654017790563, 10.095669213894967, 9.491068364284303, 9.383796905886317, 8.749296688929075, 9.272322991028028, 9.21043585945779, 8.831082255485578, 7.879785285159581, 7.76977406498795, 7.422593043306489, 7.309795087434195, 7.3781898234388406, 8.26939527745495, 8.038970665292236, 8.620495683148514, 8.394840023690561, 7.998893102186103, 7.94989009242881, 7.976444531442215, 7.697228941047317, 7.700191869116685, 7.226228865601159, 7.525938568558468, 7.160572965862716, 6.83855457567705, 6.857582065603235, 7.124494950018336, 7.809077915766411, 7.454685603093797, 7.561844189117745, 7.285519423785348, 7.011754870754474, 6.981924524776342, 7.0325013137959465, 7.515602250850592, 8.31446937454973, 8.027742571597942, 7.805746770783982, 7.567108276079572, 7.051270019188241, 7.5114769982752305, 8.025801935796103, 7.833924127112294, 8.509156509542352, 8.426636196769365, 8.070733252794234, 6.581417510760727, 6.736561831897417, 6.453503890717162, 7.091975950135269, 7.763210688358697, 8.342661559098618, 8.624502706329238, 8.884348795305316, 8.090852734413946], "aggr_mean": [0.49627292092626274, 0.4819886629577314, 0.48069103656845213, 0.45578421453235246, 0.4110938625422219, 0.40222821411814846, 0.47287410061566015, 0.4424684143493033, 0.4460551355636992, 0.4428940055139037, 0.4021110282258858, 0.35382471400376125, 0.3930126895520936, 0.4031027468655265, 0.261352029720291, 0.25185384644962844, 0.25736310766368486, 0.2583112304035933, 0.26159951688993127, 0.2291119334711211, 0.27460630931043556, 0.27213844235239426, 0.3274468359350721, 0.2522719626854233, 0.24036008509525048, 0.3135375433556536, 0.5110290682096594, 0.5121318304087122, 0.5144616559955082, 0.51302790505654, 0.5119705791730986, 0.5121307794814166, 0.04332176869810696, 0.04376936430120008, 0.05432635691180863, 0.061306645109245085, 0.0599185727689359, 0.057747961043152295, 0.052161013114916444, 0.048265487749390164, 0.04939543789914702, 0.03621070836003905, 0.03872398643324926, 0.04647044134047301, 0.04750698428191602, 0.05489486604544066, 0.04805347873558733, 0.053649496505943695, 0.059141909814365796, 0.05178592102185121, 0.043254143524834414, 0.035857192192507104, 0.034266783235689414, 0.03860793459802395, 0.037404240880131286, 0.04092635578927364, 0.047428883632616485, 0.04176287953603451, 0.0279045200960589, 0.028416331298249088, 0.031510762699213136, 0.031529772766948676, 0.04089396792082499, 0.04332400113813442, 0.03442243709954799, 0.03012550940267769, 0.020908719817357535, 0.01849800944090841, 0.020544272646325162, 0.022035206125754665, 0.0270484807346528, 0.029656202073147477, 0.028083289424372677, 0.02631361209295518, 0.03161265602504141, 0.0357323077706122, 0.038132336328561625, 0.03998339457051062, 0.0340305418433301, 0.03170914901965956], "aggr_sd": [0.03690788232436591, 0.04143314041563526, 0.046993573318441326, 0.06087643768178807, 0.09727734499446059, 0.17657755647237, 0.22363461925287278, 0.26051608763451706, 0.2596004936313092, 0.26227767904664506, 0.25660976372493494, 0.2568641528194942, 0.24467961956971057, 0.2557502421628333, 0.09692088320185155, 0.13021288944189652, 0.13581707437598878, 0.14246492899738442, 0.138737396286671, 0.1548473654595192, 0.16883837096553805, 0.1697328622449872, 0.1896846681249991, 0.20121782040342845, 0.20702187509388886, 0.2763126279055455, 0.4693987124251388, 0.4660335737563185, 0.46370374816952253, 0.4651374991084907, 0.465548331282024, 0.46538813097370607, 0.0, 0.0, 0.0, 0.0, 0.0, 0.0, 0.0, 0.0, 0.0, 0.0, 0.0, 0.0, 0.0, 0.0, 0.0, 0.0, 0.0, 0.0, 0.0, 0.0, 0.0, 0.0, 0.0, 0.0, 0.0, 0.0, 0.0, 0.0, 0.0, 0.0, 0.0, 0.0, 0.0, 0.0, 0.0, 0.0, 0.0, 0.0, 0.0, 0.0, 0.0, 0.0, 0.0, 0.0, 0.0, 0.0, 0.0, 0.0], "weap_mean": [0.5336117845515334, 0.5670151335072928, 0.5988532630303058, 0.6358843799510281, 0.7607108293664593, 0.809667113616826, 0.8519178225451272, 0.8652436064433706, 0.877330690428859, 0.8714120314247163, 0.8274952711075413, 0.7828340254471343, 0.7900409991926224, 0.7607829393963936, 0.6702380059813828, 0.6039674935031133, 0.5976077085471745, 0.6408912219376476, 0.6550585611284215, 0.6076105673656834, 0.5073865688228881, 0.4989512982503567, 0.5494513575733139, 0.33724593413335435, 0.3174900900563427, 0.36910269507123095, 0.5108923702854403, 0.5208593062416235, 0.5222367310013867, 0.5244132800912796, 0.5266691050064614, 0.528125336878264, 0.055046713321415176, 0.054313777038209145, 0.06508583506229515, 0.0665517522741719, 0.06793092732335286, 0.07545112890274285, 0.0788760225244544, 0.09174358432499854, 0.08518544528150783, 0.08737786536155023, 0.09153036046841001, 0.10189860461237905, 0.10712567410523527, 0.11625855052678319, 0.11287307732881344, 0.11579798156667301, 0.12916989341664317, 0.13450851525846055, 0.15778398327838475, 0.15531725406619915, 0.13164949090673408, 0.1531020076557485, 0.14709233823419676, 0.13741849234904283, 0.1388610413906365, 0.12185318207003076, 0.11722884141161058, 0.12009803027536285, 0.11836417415222751, 0.1215702177565053, 0.13111257548954358, 0.14331141217242951, 0.12498406488881583, 0.14654282523587658, 0.13292575056581216, 0.12356942797731085, 0.1271832930706789, 0.13968781564746394, 0.12661838345263685, 0.1071320212004504, 0.12587804956323614, 0.1300248122140769, 0.15598710128694204, 0.11132731854658541, 0.1167099827266197, 0.1141833794672978, 0.12427529795509401, 0.10999624341320807], "weap_sd": [0.06643978571617525, 0.06829733092052903, 0.07550851650712939, 0.07834110650932075, 0.10450682506524257, 0.1343789070527195, 0.14364497485063815, 0.17987821659982922, 0.19865041112104387, 0.22411070201469718, 0.27463539520266017, 0.29571364345275303, 0.2677586752247471, 0.2838444050778715, 0.28996408643385263, 0.3220175388646394, 0.34920103363989846, 0.36300440981814686, 0.3475485723900705, 0.3988900643973242, 0.3714115801182768, 0.3753731252976, 0.3687067388451114, 0.24865990095258153, 0.27617356443406366, 0.3263758303941955, 0.4672738482308313, 0.4791406937583766, 0.4777632689986134, 0.4755867199087204, 0.4733308949935387, 0.471874663121736, 0.0, 0.0, 0.0, 0.0, 0.0, 0.0, 0.0, 0.0, 0.0, 0.0, 0.0, 0.0, 0.0, 0.0, 0.0, 0.0, 0.0, 0.0, 0.0, 0.0, 0.0, 0.0, 0.0, 0.0, 0.0, 0.0, 0.0, 0.0, 0.0, 0.0, 0.0, 0.0, 0.0, 0.0, 0.0, 0.0, 0.0, 0.0, 0.0, 0.0, 0.0, 0.0, 0.0, 0.0, 0.0, 0.0, 0.0, 0.0]}}};
+const C = DATA.conditions;
+const NAMES = Object.keys(C);
+const COL = {'peaceful':'#2ca02c', 'arms race':'#d62728', 'collapse':'#7f7f7f'};
+const RGB = {'peaceful':'44,160,44', 'arms race':'214,39,40', 'collapse':'127,127,127'};
+const STEPS = DATA.n_steps, N = DATA.n_seeds;
+const xs = Array.from({length: STEPS}, (_, i) => i);
+const YLAB = {pop:'agents', welfare:'sum of resources', aggr:'P(attack)', weap:'weapon fraction'};
+const TITLE = {pop:'Population', welfare:'Total welfare',
+               aggr:'Mean evolved aggression', weap:'Mean weapon budget'};
+
+function traces(stat) {
+  const out = [];
+  for (const name of NAMES) {
+    const m = C[name][stat + '_mean'], s = C[name][stat + '_sd'];
+    const up = m.map((v,i) => v + s[i]), lo = m.map((v,i) => v - s[i]);
+    out.push({x: xs.concat([...xs].reverse()), y: up.concat([...lo].reverse()),
+      fill:'toself', fillcolor:'rgba(' + RGB[name] + ',0.15)', line:{color:'transparent'},
+      hoverinfo:'skip', showlegend:false});
+    const cfg = C[name];
+    out.push({x: xs, y: m, mode:'lines', line:{color:COL[name], width:2.2},
+      name: name + ' (det=' + cfg.determinism + ', RoI=' + cfg.roi + ')'});
+  }
+  return out;
+}
+
+function show(stat) {
+  ['pop','welfare','aggr','weap'].forEach(v =>
+    document.getElementById('b-'+v).classList.toggle('active', v===stat));
+  const layout = {title: TITLE[stat] + ' (mean \u00b1 1 SD over ' + N + ' seeds)',
+    xaxis:{title:'step'}, yaxis:{title: YLAB[stat]}, margin:{t:44}, legend:{orientation:'h'}};
+  if (stat === 'aggr' || stat === 'weap') layout.yaxis.range = [0, 1];
+  Plotly.newPlot('chart', traces(stat), layout, {displayModeBar:false, responsive:true});
+  const notes = {
+    pop: 'Collapse (low RoI) dies out; peaceful and arms-race environments sustain a population.',
+    welfare: 'Peace compounds: the disarming population accumulates far more total resources.',
+    aggr: 'Deterministic wars select for high aggression; low determinism + high RoI select for peace.',
+    weap: 'When strength reliably decides fights, budgets flow into weapons instead of production.'
+  };
+  document.getElementById('note').textContent = notes[stat];
+}
+show('pop');
+</script>
+</body></html>

diff --git a/war_peace_multiseed_experiment.py b/war_peace_multiseed_experiment.py
@@ -1,0 +1,140 @@
+"""
+War vs Peace, part 2 -- how do things evolve *on average*, and is the effect
+robust across seeds?
+
+The single heatmap in `war_peace_experiment.py` only reports the *final* state
+of each (determinism, RoI) cell. Here we instead record full per-step
+trajectories -- population, total welfare, mean evolved aggression, and mean
+weapon budget -- and average them across many seeds (with +/-1 SD bands) for a
+few contrasting environments:
+
+  * "peaceful"  : low determinism, high RoI   -> evolution should disarm
+  * "arms race" : high determinism, mid RoI   -> aggression + weapons climb
+  * "collapse"  : high determinism, low RoI   -> upkeep not covered, extinction
+
+Run standalone to produce assets/war_peace_multiseed.png, or with `--json` to
+dump assets/war_peace_multiseed.json for the interactive widget.
+"""
+import asyncio
+import random
+import sys
+
+import numpy as np
+import matplotlib
+matplotlib.use("Agg")
+import matplotlib.pyplot as plt
+
+from agents import WarPeaceBot
+from games import WarPeaceGame
+from main import World
+
+N_SEEDS = 20
+N_STEPS = 80
+N_AGENTS = 30
+
+CONDITIONS = {
+    "peaceful":  dict(determinism=0.25, roi=2.0),
+    "arms race": dict(determinism=1.00, roi=1.5),
+    "collapse":  dict(determinism=1.00, roi=0.75),
+}
+STYLE = {
+    "peaceful":  "#2ca02c",
+    "arms race": "#d62728",
+    "collapse":  "#7f7f7f",
+}
+
+
+async def run_trajectory(determinism, roi, seed):
+    """Return per-step arrays (length N_STEPS) for one seed."""
+    random.seed(seed)
+    agents = [WarPeaceBot(speed=0.03) for _ in range(N_AGENTS)]
+    games = [WarPeaceGame(capacity=2, determinism=determinism, roi=roi)
+             for _ in range(N_AGENTS // 2)]
+    world = World(agents=agents, games=games, resources_to_evolve=4.0,
+                  pairing="proximity")
+
+    pop, welfare, aggr, weap = [], [], [], []
+    for _ in range(N_STEPS):
+        if world.agents:
+            random.shuffle(world.games)
+            for game in world.games:
+                await game.play(world.select_for_game(world.agents, game))
+            world.agents = world.evolve()
+        n = len(world.agents)
+        pop.append(n)
+        welfare.append(sum(a.total_reward for a in world.agents) if n else 0.0)
+        aggr.append(sum(a.aggression for a in world.agents) / n if n else np.nan)
+        weap.append(sum(a.weapon_fraction for a in world.agents) / n if n else np.nan)
+    return dict(pop=pop, welfare=welfare, aggr=aggr, weap=weap)
+
+
+async def gather():
+    out = {}
+    for name, cfg in CONDITIONS.items():
+        runs = [await run_trajectory(cfg["determinism"], cfg["roi"], s)
+                for s in range(N_SEEDS)]
+        out[name] = runs
+        print(f"done {name}: {cfg}")
+    return out
+
+
+def stats(runs, key):
+    m = np.array([r[key] for r in runs], dtype=float)
+    return np.nanmean(m, axis=0), np.nanstd(m, axis=0)
+
+
+def summarize(data):
+    out = {"n_seeds": N_SEEDS, "n_steps": N_STEPS, "conditions": {}}
+    for name, runs in data.items():
+        cfg = CONDITIONS[name]
+        entry = {"determinism": cfg["determinism"], "roi": cfg["roi"]}
+        for key in ("pop", "welfare", "aggr", "weap"):
+            mean, sd = stats(runs, key)
+            entry[key + "_mean"] = np.nan_to_num(mean).tolist()
+            entry[key + "_sd"] = np.nan_to_num(sd).tolist()
+        out["conditions"][name] = entry
+    return out
+
+
+async def main():
+    data = await gather()
+    steps = np.arange(N_STEPS)
+
+    fig, axes = plt.subplots(1, 4, figsize=(18, 4.4))
+    panels = [
+        ("pop", "Population"),
+        ("welfare", "Total welfare"),
+        ("aggr", "Mean aggression P(attack)"),
+        ("weap", "Mean weapon budget"),
+    ]
+    for ax, (key, title) in zip(axes, panels):
+        for name, runs in data.items():
+            mean, sd = stats(runs, key)
+            c = STYLE[name]
+            ax.plot(steps, mean, color=c, lw=1.9, label=name)
+            ax.fill_between(steps, mean - sd, mean + sd, color=c, alpha=0.15)
+        ax.set_title(title)
+        ax.set_xlabel("step")
+        if key in ("aggr", "weap"):
+            ax.set_ylim(0, 1)
+    axes[0].legend(fontsize=9)
+    fig.suptitle(f"War vs Peace dynamics averaged over {N_SEEDS} seeds "
+                 f"(mean +/-1 SD)")
+    fig.tight_layout()
+    fig.savefig("assets/war_peace_multiseed.png", dpi=140)
+    print("Saved assets/war_peace_multiseed.png")
+
+
+def dump_json():
+    data = asyncio.run(gather())
+    import json
+    with open("assets/war_peace_multiseed.json", "w") as f:
+        json.dump(summarize(data), f)
+    print("Saved assets/war_peace_multiseed.json")
+
+
+if __name__ == "__main__":
+    if "--json" in sys.argv:
+        dump_json()
+    else:
+        asyncio.run(main())

diff --git a/widgets/build_war_peace_multiseed.py b/widgets/build_war_peace_multiseed.py
@@ -1,0 +1,93 @@
+"""Build an interactive widget for the multi-seed War vs Peace experiment.
+
+Reads assets/war_peace_multiseed.json (produced by
+`python3 war_peace_multiseed_experiment.py --json`) and inlines it into a
+self-contained Plotly HTML page. The reader toggles which quantity to view
+(population, welfare, aggression, weapon budget) and sees the mean +/-1 SD
+band across seeds for three contrasting environments (peaceful / arms race /
+collapse), making the average dynamics -- not a single noisy seed -- explicit.
+"""
+import json
+import os
+
+ROOT = os.path.dirname(os.path.dirname(os.path.abspath(__file__)))
+JSON_PATH = os.path.join(ROOT, "assets", "war_peace_multiseed.json")
+OUT_PATH = os.path.join(ROOT, "assets", "war_peace_multiseed.html")
+
+with open(JSON_PATH) as f:
+    DATA = json.load(f)
+
+HTML = """<!doctype html>
+<html><head><meta charset="utf-8">
+<meta name="viewport" content="width=device-width, initial-scale=1">
+<script src="https://cdn.plot.ly/plotly-2.35.2.min.js"></script>
+<style>
+  body { font-family: -apple-system, Segoe UI, Roboto, sans-serif; margin: 0; padding: 12px;
+         color: #1a1a1a; background: #fff; }
+  .controls { display:flex; gap:8px; flex-wrap:wrap; margin-bottom:8px; align-items:center; }
+  button { border:1px solid #ccc; background:#f6f6f6; border-radius:6px; padding:6px 12px;
+            cursor:pointer; font-size:13px; }
+  button.active { background:#1f77b4; color:#fff; border-color:#1f77b4; }
+  #note { font-size:12px; color:#555; margin:6px 2px; }
+  #chart { width:100%; height:430px; }
+</style></head>
+<body>
+<div class="controls">
+  <button id="b-pop" class="active" onclick="show('pop')">Population</button>
+  <button id="b-welfare" onclick="show('welfare')">Total welfare</button>
+  <button id="b-aggr" onclick="show('aggr')">Mean aggression</button>
+  <button id="b-weap" onclick="show('weap')">Weapon budget</button>
+</div>
+<div id="chart"></div>
+<div id="note"></div>
+<script>
+const DATA = __DATA_JSON__;
+const C = DATA.conditions;
+const NAMES = Object.keys(C);
+const COL = {'peaceful':'#2ca02c', 'arms race':'#d62728', 'collapse':'#7f7f7f'};
+const RGB = {'peaceful':'44,160,44', 'arms race':'214,39,40', 'collapse':'127,127,127'};
+const STEPS = DATA.n_steps, N = DATA.n_seeds;
+const xs = Array.from({length: STEPS}, (_, i) => i);
+const YLAB = {pop:'agents', welfare:'sum of resources', aggr:'P(attack)', weap:'weapon fraction'};
+const TITLE = {pop:'Population', welfare:'Total welfare',
+               aggr:'Mean evolved aggression', weap:'Mean weapon budget'};
+
+function traces(stat) {
+  const out = [];
+  for (const name of NAMES) {
+    const m = C[name][stat + '_mean'], s = C[name][stat + '_sd'];
+    const up = m.map((v,i) => v + s[i]), lo = m.map((v,i) => v - s[i]);
+    out.push({x: xs.concat([...xs].reverse()), y: up.concat([...lo].reverse()),
+      fill:'toself', fillcolor:'rgba(' + RGB[name] + ',0.15)', line:{color:'transparent'},
+      hoverinfo:'skip', showlegend:false});
+    const cfg = C[name];
+    out.push({x: xs, y: m, mode:'lines', line:{color:COL[name], width:2.2},
+      name: name + ' (det=' + cfg.determinism + ', RoI=' + cfg.roi + ')'});
+  }
+  return out;
+}
+
+function show(stat) {
+  ['pop','welfare','aggr','weap'].forEach(v =>
+    document.getElementById('b-'+v).classList.toggle('active', v===stat));
+  const layout = {title: TITLE[stat] + ' (mean \\u00b1 1 SD over ' + N + ' seeds)',
+    xaxis:{title:'step'}, yaxis:{title: YLAB[stat]}, margin:{t:44}, legend:{orientation:'h'}};
+  if (stat === 'aggr' || stat === 'weap') layout.yaxis.range = [0, 1];
+  Plotly.newPlot('chart', traces(stat), layout, {displayModeBar:false, responsive:true});
+  const notes = {
+    pop: 'Collapse (low RoI) dies out; peaceful and arms-race environments sustain a population.',
+    welfare: 'Peace compounds: the disarming population accumulates far more total resources.',
+    aggr: 'Deterministic wars select for high aggression; low determinism + high RoI select for peace.',
+    weap: 'When strength reliably decides fights, budgets flow into weapons instead of production.'
+  };
+  document.getElementById('note').textContent = notes[stat];
+}
+show('pop');
+</script>
+</body></html>
+"""
+
+html = HTML.replace("__DATA_JSON__", json.dumps(DATA))
+with open(OUT_PATH, "w") as f:
+    f.write(html)
+print("Wrote", OUT_PATH)

diff --git a/war_peace_experiment.py b/war_peace_experiment.py
@@ -50,7 +50,8 @@ async def run_once(determinism, roi, n_agents=30, n_steps=80, seed=0):
 async def main():
     determinisms = [0.0, 0.25, 0.5, 0.75, 1.0]
     rois = [0.5, 1.0, 1.5, 2.0, 3.0]
-    seeds = [0, 1, 2]
+    # More seeds per cell => less noisy heatmaps and more reliable trends.
+    seeds = list(range(12))
 
     welfare = np.zeros((len(rois), len(determinisms)))
     aggr = np.zeros((len(rois), len(determinisms)))